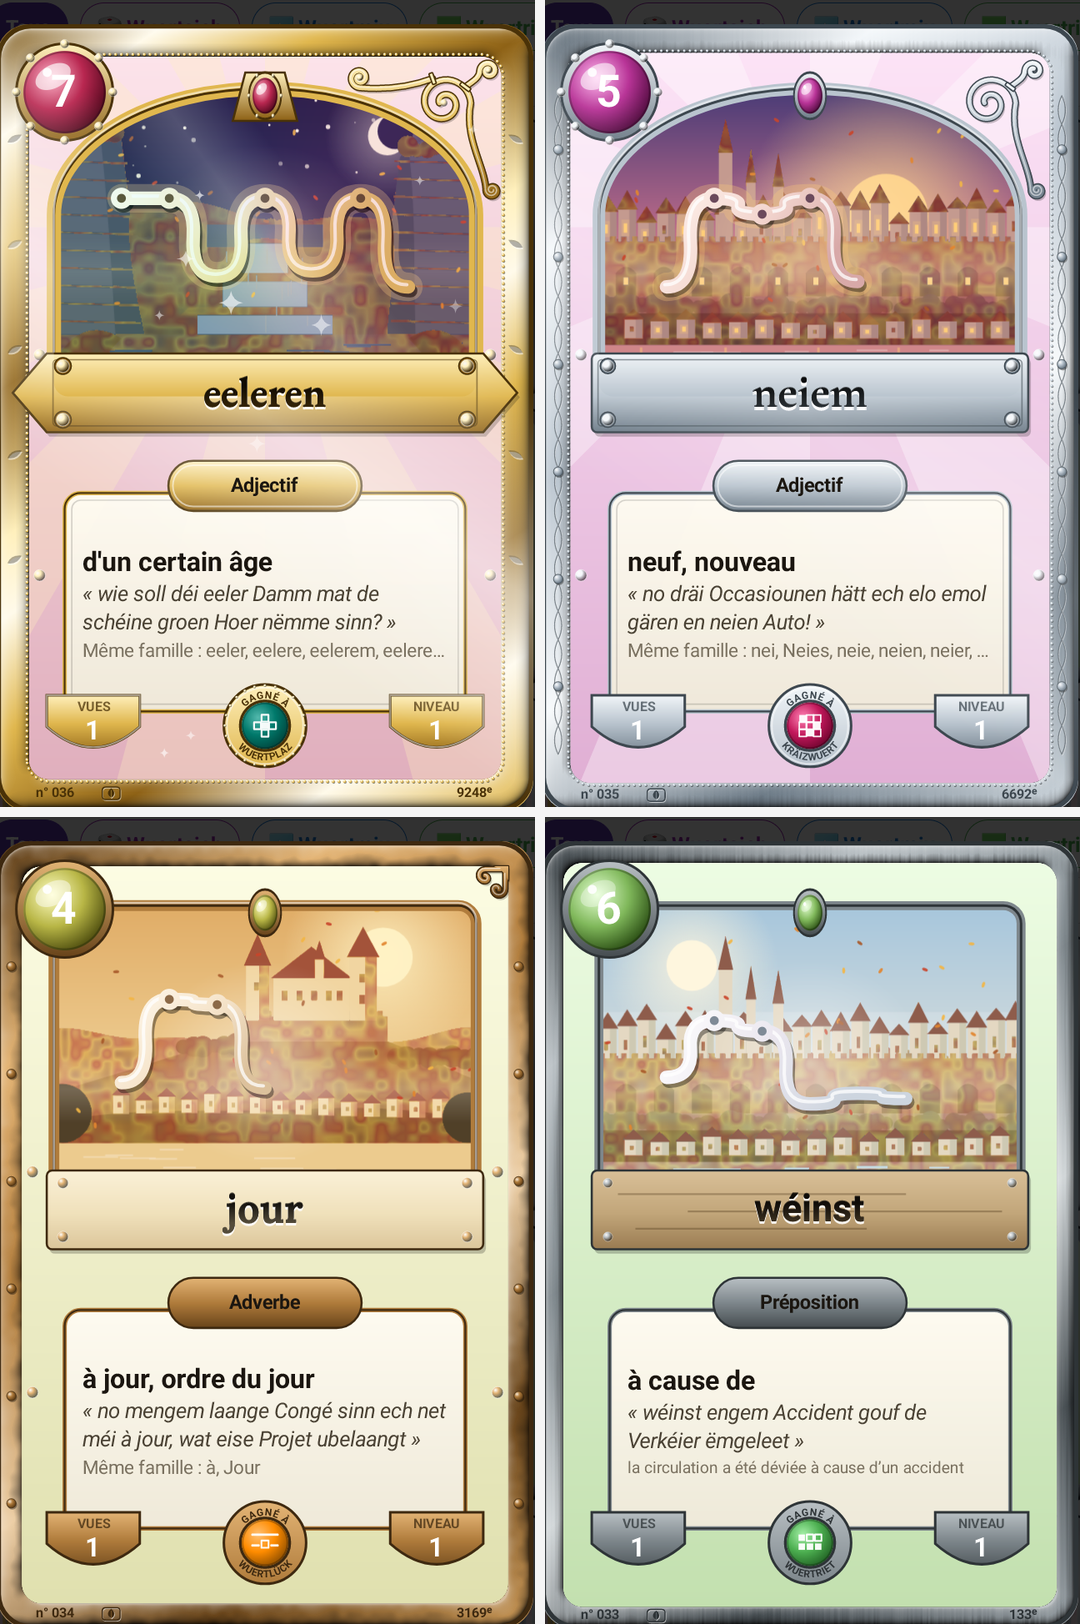
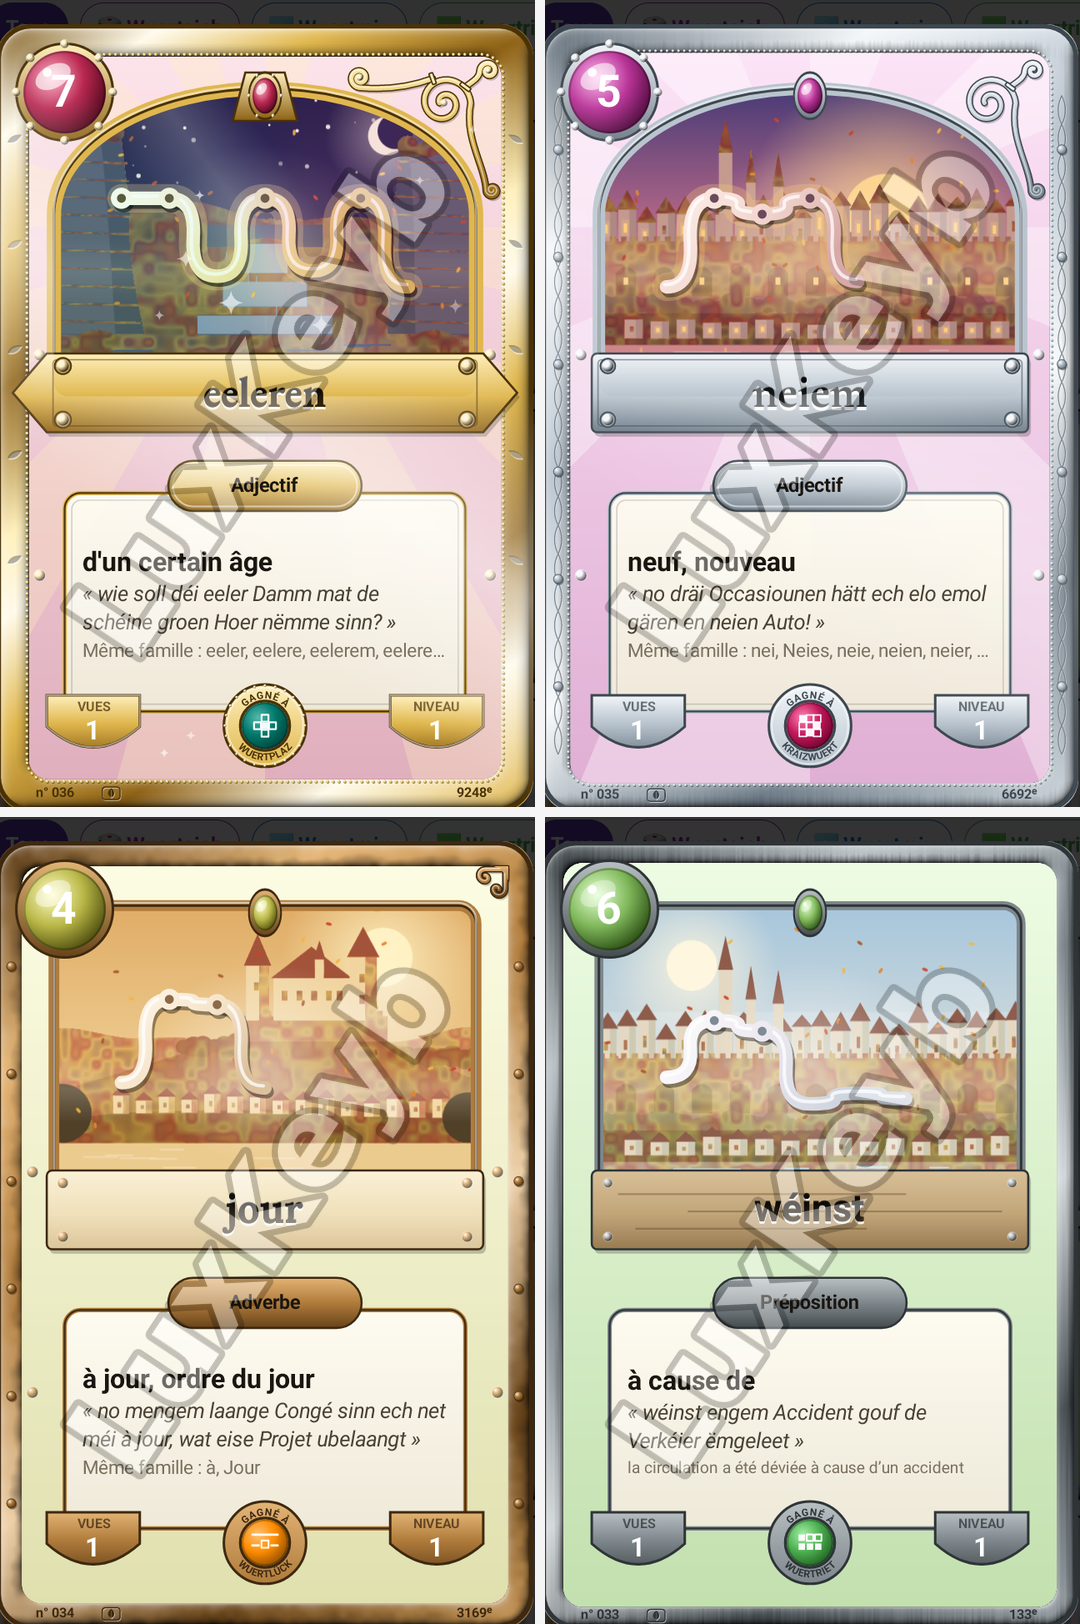
docs(nouveautes): un filigrane « LuxKeyb » en diagonale sur chaque carte
Incrusté dans les captures, et non posé par la page : un calque disparaît
dès qu'on enregistre l'image. docs/scripts/filigrane_cartes.py trouve les
cartes par le fond clair qui les sépare (gris du carnet ou crème de
l'album) et écrit le mot le long de la diagonale de chacune, blanc
translucide cerné de sombre. À passer une fois sur chaque capture neuve.

Claude-Session: https://claude.ai/code/session_017v16GDU5NnmPUr6u9MBxF1

diff --git a/docs/scripts/filigrane_cartes.py b/docs/scripts/filigrane_cartes.py
@@ -1,0 +1,133 @@
+#!/usr/bin/env python3
+# -*- coding: utf-8 -*-
+"""Pose un filigrane « LuxKeyb » en diagonale sur chaque carte d'une capture.
+
+Les captures du carnet (docs/Screenshots/lux_carnet_*.png) montrent des cartes
+posées sur un fond clair : le gris du carnet (#F5F5F5) entre les cartes
+ouvertes d'un montage, le crème d'une page d'album (#FFFBF2) entre les
+vignettes. Le script trouve les cartes par ce fond, sans qu'on lui donne la
+mise en page, et écrit le filigrane en travers de chacune.
+
+Le filigrane est incrusté dans l'image, pas posé par la page : un calque CSS
+disparaît dès qu'on enregistre l'image.
+
+    python docs/scripts/filigrane_cartes.py docs/Screenshots/lux_carnet_metaux.png
+
+Modifie les fichiers en place. À passer une seule fois, sur une capture neuve :
+une seconde passe doublerait le filigrane. L'original reste dans l'historique
+git.
+"""
+
+import math
+import sys
+from pathlib import Path
+
+from PIL import Image, ImageDraw, ImageFont
+
+TEXTE = "LuxKeyb"
+FONDS = ((245, 245, 245), (255, 251, 242))
+POLICE = "/usr/share/fonts/truetype/dejavu/DejaVuSans-Bold.ttf"
+# Un pixel s'écarte du fond au-delà de cette distance (somme des trois canaux).
+ECART = 24
+# Un intervalle de fond plus court que ceci ne sépare pas deux cartes.
+SEPARATION = 4
+# Une carte plus petite que ceci n'en est pas une (bavure, ombre).
+COTE_MIN = 60
+
+
+def segments(occupe, longueur):
+    """Les intervalles [début, fin) où `occupe` est vrai, fusionnés par-dessus
+    les trous plus courts que SEPARATION."""
+    brut, debut = [], None
+    for i in range(longueur):
+        if occupe[i] and debut is None:
+            debut = i
+        elif not occupe[i] and debut is not None:
+            brut.append([debut, i])
+            debut = None
+    if debut is not None:
+        brut.append([debut, longueur])
+    fusion = []
+    for s in brut:
+        if fusion and s[0] - fusion[-1][1] < SEPARATION:
+            fusion[-1][1] = s[1]
+        else:
+            fusion.append(s)
+    return [s for s in fusion if s[1] - s[0] >= COTE_MIN]
+
+
+def cartes(im):
+    """Les rectangles des cartes, par découpe récursive : les bandes de
+    rangées occupées, puis les colonnes dans chacune, puis les rangées dans
+    chaque colonne, jusqu'à ce que plus rien ne se sépare. Une seule passe ne
+    suffit pas : une ombre qui court sur toute la hauteur soude les rangées
+    tant qu'on n'a pas d'abord isolé les colonnes."""
+    rgb = im.convert("RGB")
+    px = rgb.load()
+
+    def hors_fond(x, y):
+        r, g, b = px[x, y]
+        return all(abs(r - f[0]) + abs(g - f[1]) + abs(b - f[2]) > ECART for f in FONDS)
+
+    def couper(boite, en_rangees):
+        x0, y0, x1, y1 = boite
+        if en_rangees:
+            parts = segments([any(hors_fond(x, y) for x in range(x0, x1, 2)) for y in range(y0, y1)], y1 - y0)
+            enfants = [(x0, y0 + a, x1, y0 + b) for a, b in parts]
+        else:
+            parts = segments([any(hors_fond(x, y) for y in range(y0, y1, 2)) for x in range(x0, x1)], x1 - x0)
+            enfants = [(x0 + a, y0, x0 + b, y1) for a, b in parts]
+        return enfants
+
+    def decouper(boite, en_rangees, immobile=0):
+        enfants = couper(boite, en_rangees)
+        if len(enfants) == 1 and enfants[0] == boite:
+            # Rien de coupé dans ce sens : un second refus dans l'autre et
+            # la boîte est une carte.
+            return [boite] if immobile else decouper(boite, not en_rangees, 1)
+        return [c for e in enfants for c in decouper(e, not en_rangees)]
+
+    l, h = rgb.size
+    return decouper((0, 0, l, h), True)
+
+
+def filigrane(im, boite):
+    """Le mot en travers de la carte, le long de sa diagonale montante : blanc
+    translucide cerné de sombre, lisible sur le métal clair comme sur un ciel
+    de nuit, sans masquer la carte."""
+    x0, y0, x1, y1 = boite
+    l, h = x1 - x0, y1 - y0
+    angle = math.degrees(math.atan2(h, l))
+    diagonale = math.hypot(l, h)
+    # Le mot occupe un peu plus de la moitié de la diagonale.
+    taille = max(12, int(diagonale * 0.55 / (len(TEXTE) * 0.62)))
+    police = ImageFont.truetype(POLICE, taille)
+    trait = max(1, taille // 18)
+
+    gauche, haut, droite, bas = police.getbbox(TEXTE, stroke_width=trait)
+    calque = Image.new("RGBA", (droite - gauche + 4, bas - haut + 4), (0, 0, 0, 0))
+    ImageDraw.Draw(calque).text(
+        (2 - gauche, 2 - haut), TEXTE, font=police,
+        fill=(255, 255, 255, 92), stroke_width=trait, stroke_fill=(0, 0, 0, 56),
+    )
+    calque = calque.rotate(angle, resample=Image.BICUBIC, expand=True)
+    cx, cy = x0 + l // 2, y0 + h // 2
+    im.alpha_composite(calque, (cx - calque.width // 2, cy - calque.height // 2))
+
+
+def traiter(chemin):
+    source = Image.open(chemin)
+    mode = source.mode
+    im = source.convert("RGBA")
+    boites = cartes(im)
+    for b in boites:
+        filigrane(im, b)
+    (im if mode == "RGBA" else im.convert("RGB")).save(chemin, optimize=True)
+    print(f"{chemin} : {len(boites)} cartes")
+
+
+if __name__ == "__main__":
+    if len(sys.argv) < 2:
+        sys.exit(__doc__)
+    for nom in sys.argv[1:]:
+        traiter(Path(nom))
